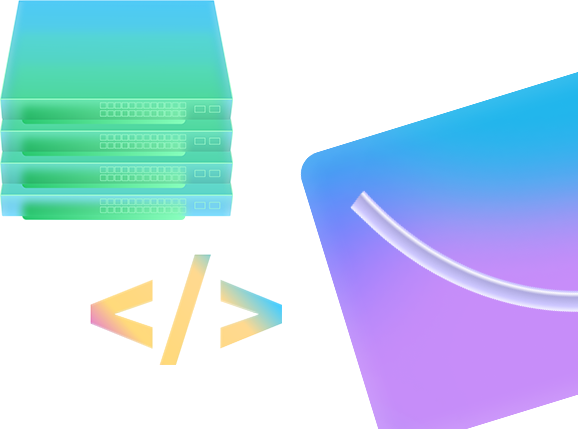
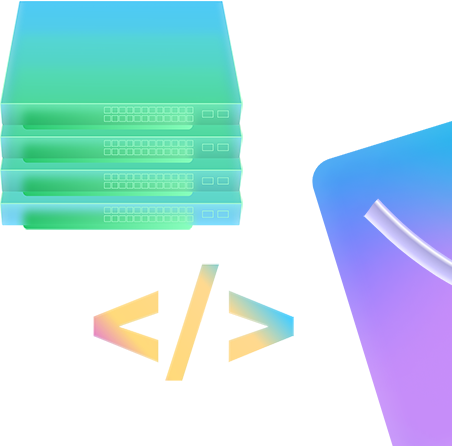
Hero responsive images sourceset

diff --git a/src/components/Hero.js b/src/components/Hero.js
@@ -4,6 +4,13 @@ import '../App.css'
 import person from './person.png'
 import leftshapes from './left-shapes.png'
 import rightshapes from './right-shapes.png'
+import leftshapes2x from './left-shapes-2x.png'
+import rightshapes2x from './right-shapes-2x.png'
+
+import leftshapesmobile from './left-shapes-mobile.png'
+import rightshapesmobile from './right-shapes-mobile.png'
+import leftshapesmobile2x from './left-shapes-mobile-2x.png'
+import rightshapesmobile2x from './right-shapes-mobile-2x.png'
 
 
 
@@ -23,7 +30,16 @@ function Hero () {
                     <img src={person} alt='Picture of person'></img>
                 </div>
                 <div className='hero-image image-right'>
-                    <img src={rightshapes} alt='Colourful 3D shapes'></img>
+                    {/*<img src={rightshapes} alt='Colourful 3D shapes'></img>*/}
+                    <picture>
+                        <source media="(min-width: 64em)" src={rightshapes} srcSet={`${rightshapes} 631w, ${rightshapes2x} 1262w`} />
+                        <source media="(min-width: 40em)" src={rightshapesmobile} srcSet={`${rightshapesmobile} 279w, ${rightshapesmobile2x} 558w`} />
+                        <img src={rightshapes} alt='Colourful 3D shapes'></img>
+
+                        {/*<source media="(min-width: 64em)" src="https://res.cloudinary.com/pitch-software/image/upload/f_auto/v1616682131/website-assets/press/hands_right.png" srcset="https://res.cloudinary.com/pitch-software/image/upload/f_auto/v1616682131/website-assets/press/hands_right.png 631w,https://res.cloudinary.com/pitch-software/image/upload/f_auto/v1616686140/website-assets/press/hands_right_2x.png 1262w"></source>
+                        <source media="(min-width: 40em)"  src="https://res.cloudinary.com/pitch-software/image/upload/f_auto/v1616776346/website-assets/press/hands_right_tablet.png" srcset="https://res.cloudinary.com/pitch-software/image/upload/f_auto/v1616776346/website-assets/press/hands_right_tablet.png 279w,https://res.cloudinary.com/pitch-software/image/upload/f_auto/v1616776346/website-assets/press/hands_right_tablet_2x.png 558w"></source>
+                        <img alt="Press Microphones" src="https://res.cloudinary.com/pitch-software/image/upload/f_auto/v1616776346/website-assets/press/hands_right_tablet.png" title=""></img>*/}
+                    </picture>
                 </div>
             </div>
         </div>

diff --git a/src/components/Hero.css b/src/components/Hero.css
@@ -72,7 +72,7 @@
 }
 
 .image-right {
-    right: -150px
+    right: -15px
 }
 
 @media (max-width: 700px) {
